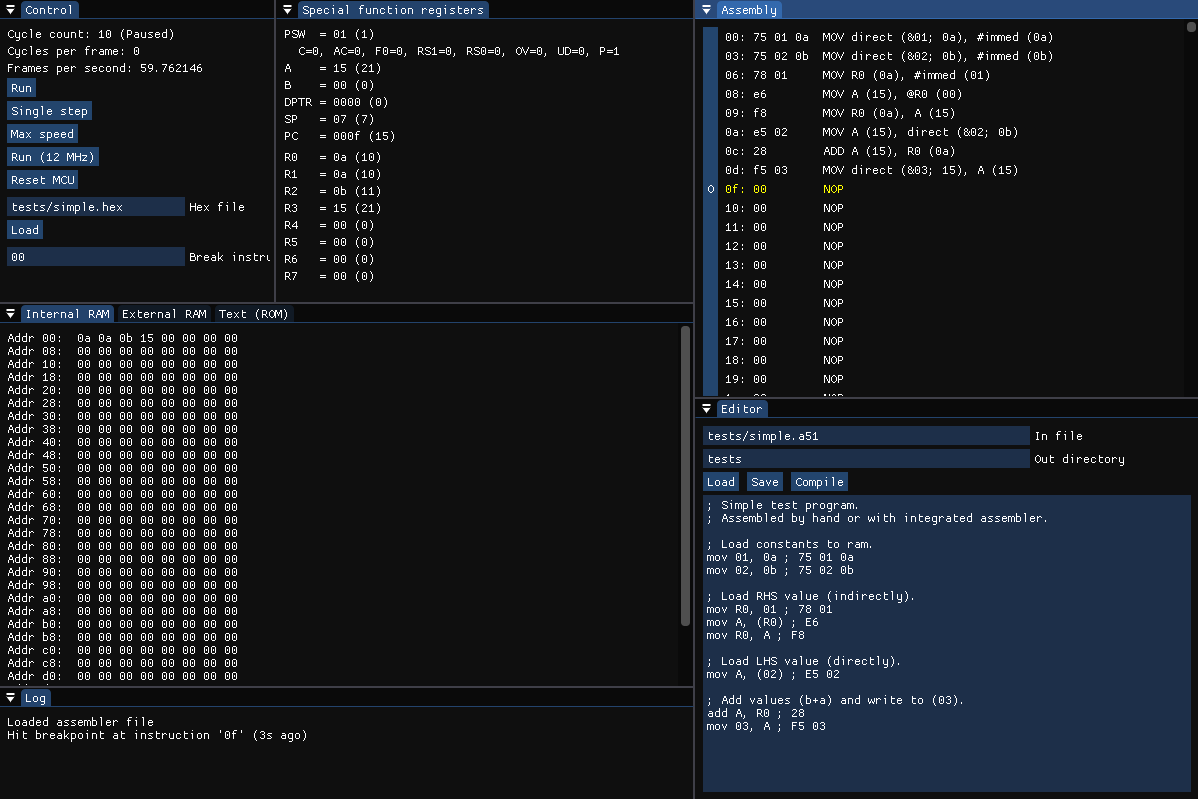
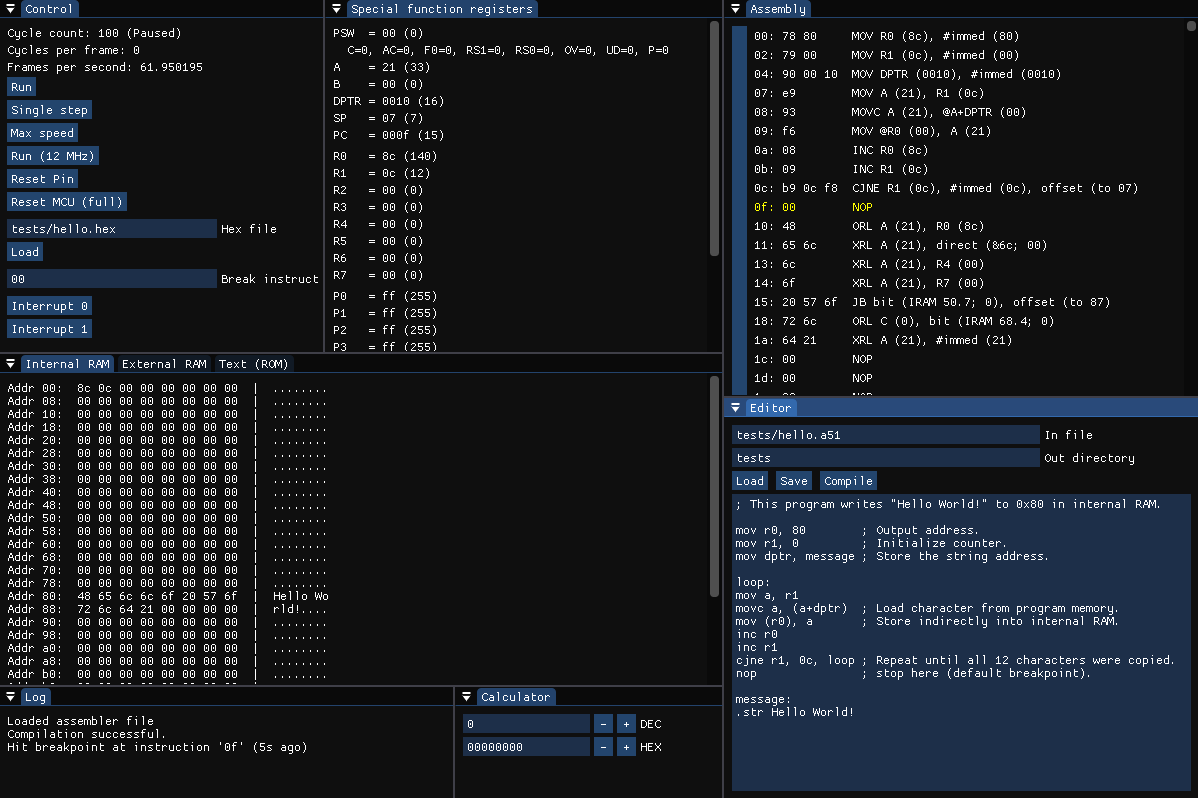
Add hello world example

diff --git a/sim8051/src/Encoding.cpp b/sim8051/src/Encoding.cpp
@@ -549,8 +549,9 @@ void substitute_command( String &str, size_t arg1_idx, size_t &arg2_idx, std::ve
     }
     if ( std::find( rev_sfr_names.begin(), rev_sfr_names.end(), arg2 ) == rev_sfr_names.end() && arg2 != "addr" &&
          arg2 != "imm" && !arg2.empty() ) {
-        if ( arg2[0] == '(' || arg2.find_first_not_of( "0123456789abcdef" ) != arg2.npos ) {
-            // Indirect or label
+        if ( arg2[0] == '(' ||
+             ( arg2.find_first_not_of( "0123456789abcdef" ) != arg2.npos && str.find( "mov dptr" ) != 0 ) ) {
+            // Indirect or label (and not the special instruction 0x90)
             if ( arg2[0] == '/' ) {
                 str.replace( arg2_idx, arg2.size(), "/addr" );
             } else {
@@ -801,8 +802,16 @@ void compile_assembly( const String &code, std::ostream &output ) {
                                     arg = arg.substr( 1, arg.size() - 2 );
                                 if ( opcode == 0x90 ) {
                                     // "mov dptr" with two bytes
-                                    hex.push_back( stoi( arg.substr( 0, 2 ), 0, 16 ) );
-                                    hex.push_back( stoi( arg.substr( 2 ), 0, 16 ) );
+                                    if ( real_arg1.find_first_not_of( "0123456789abcdef" ) == real_arg1.npos ) {
+                                        // Is direct value
+                                        hex.push_back( stoi( arg.substr( 0, 2 ), 0, 16 ) );
+                                        hex.push_back( stoi( arg.substr( 2 ), 0, 16 ) );
+                                    } else {
+                                        // Is label
+                                        label_slots16[arg].push_back( hex.size() );
+                                        hex.push_back( 0 );
+                                        hex.push_back( 0 );
+                                    }
                                 } else {
                                     // Only one byte
                                     val = static_cast<i8>( stoi( arg, 0, 16 ) );

diff --git a/sim8051/src/main.cpp b/sim8051/src/main.cpp
@@ -58,8 +58,8 @@ int main() {
     bool use_fix_target_frequency = false;
     std::vector<u16> op_code_indices; // Pointers to the op codes.
     auto processor = std::make_shared<Processor>();
-    String hex_filename = "tests/simple.hex";
-    String editor_asm_filename = "tests/simple.a51";
+    String hex_filename = "tests/hello.hex";
+    String editor_asm_filename = "tests/hello.a51";
     String editor_hex_file_dir = "tests";
     String editor_content = "";
 
@@ -100,7 +100,11 @@ int main() {
                         max_speed = false;
                         use_fix_target_frequency = false;
                     } else if ( evt.key.code == sf::Keyboard::R ) {
-                        processor->reset();
+                        if ( evt.key.shift ) {
+                            processor->full_reset();
+                        } else {
+                            processor->reset();
+                        }
                     } else if ( evt.key.code == sf::Keyboard::P ) {
                         max_speed = false;
                         steps_per_frame = steps_per_frame == 0 ? 1 : 0;
@@ -421,7 +425,7 @@ int main() {
 
         ImGui::Begin( "Editor" );
         {
-            should_load |= ImGui::InputText( "In file", &editor_asm_filename );
+            should_load |= ImGui::InputText( "In file", &editor_asm_filename, ImGuiInputTextFlags_EnterReturnsTrue );
             ImGui::InputText( "Out directory", &editor_hex_file_dir );
 
             should_load |= ImGui::Button( "Load" );

diff --git a/sim8051/src/Processor.cpp b/sim8051/src/Processor.cpp
@@ -425,17 +425,17 @@ void Processor::do_cycle() {
                 if ( ls_nibble == 4 ) {
                     pc += 3;
                     if ( a != arg1 )
-                        pc += *reinterpret_cast<i8 *>( second_operand );
+                        pc += *reinterpret_cast<i8 *>( &arg2 );
                     set_bit_to( carry_addr, a < arg1 );
                 } else if ( ls_nibble == 5 ) {
                     pc += 3;
                     if ( a != *value )
-                        pc += *reinterpret_cast<i8 *>( second_operand );
+                        pc += *reinterpret_cast<i8 *>( &arg2 );
                     set_bit_to( carry_addr, a < *value );
                 } else {
                     pc += 3;
                     if ( *value != arg1 )
-                        pc += *reinterpret_cast<i8 *>( second_operand );
+                        pc += *reinterpret_cast<i8 *>( &arg2 );
                     set_bit_to( carry_addr, *value < arg1 );
                 }
                 inc_pc = 0;

diff --git a/README.md b/README.md
@@ -13,6 +13,8 @@ I need a simulator for my little compiler project and didn't find a simple one t
 * A few keyboard shortcuts are supported: Space (single step), R (reset MCU), CTRL+Enter while editing (save & compile), P (run/pause), L (reload all files and compile).
 * Breakpoints can be set by clicking on the left column in assembly view. You can also change the "break instruction".
 * The simulation does not mirror the hardware one-to-one. Some features like interrupts might trigger one cycle too late or ports may behave differently.
+* Labels must contain at least one non-hexadecimal character to be usable.
+* Labels can be used with any jump instructions and intstruction 0x90 (mov dptr, <value/label>)
 
 ## Dependencies
 Install them with a package manager like "pacman" or follow the instructions on their website.
